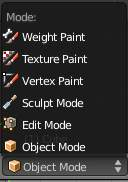
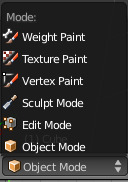
Image quality: Re-replace falsely replaced images
In a number of cases manual images were replaced with the wrong wiki image, even when the correct wiki image existed.
This commit corrects those cases, and catches a few missed cases of manual images with higher-quality wiki counterparts that were never replaced to begin with.

diff --git a/trunk/blender_docs/manual/render/blender_render/motion_blur.rst b/trunk/blender_docs/manual/render/blender_render/motion_blur.rst
@@ -58,17 +58,17 @@ The scale beneath the cube helps in appreciating the movement of 1 Blender unit.
 
 .. list-table::
 
-   * - .. figure:: /images/render-mblur02.jpg
+   * - .. figure:: /images/render-mblur02.png
           :width: 320px
 
           Frame 1 of the moving cube without Motion Blur.
 
-     - .. figure:: /images/render-mblur03.jpg
+     - .. figure:: /images/render-mblur03.png
           :width: 320px
 
           Frame 2 of the moving cube without Motion Blur.
 
-.. figure:: /images/render-mblur04.jpg
+.. figure:: /images/render-mblur04.png
    :width: 320px
 
    Frame 1 when Sampled Motion Blur is enabled and eight 'intermediate' frames are computed.
@@ -77,12 +77,12 @@ The scale beneath the cube helps in appreciating the movement of 1 Blender unit.
 
 .. list-table::
 
-   * - .. figure:: /images/render-mblur05.jpg
+   * - .. figure:: /images/render-mblur05.png
           :width: 320px
 
           The effect of an increased shutter value.
 
-     - .. figure:: /images/render-mblur06.jpg
+     - .. figure:: /images/render-mblur06.png
           :width: 320px
 
           Even further increased shutter value.

diff --git a/trunk/blender_docs/manual/editors/3dview/navigate/introduction.rst b/trunk/blender_docs/manual/editors/3dview/navigate/introduction.rst
@@ -17,7 +17,7 @@ The *3D View* editor is comprised of a workspace and a header.
 The header is shown at the bottom or top of the workspace, and can be hidden if desired.
 The header shows you a menu and the current mode, as explained below.
 
-.. figure:: /images/editors_3dview_header.jpg
+.. figure:: /images/editors_3dview_header.png
 
    3D View header.
 

diff --git a/trunk/blender_docs/manual/interface/window_system/regions.rst b/trunk/blender_docs/manual/interface/window_system/regions.rst
@@ -131,7 +131,7 @@ toggle between hide and show.
 
    * - .. figure:: /images/interface-window_system-headers-hide.png
 
-     - .. figure:: /images/interface-window_system-headers-show_02.jpg
+     - .. figure:: /images/interface-window_system-headers-show_02.png
 
 
 Position

diff --git a/trunk/blender_docs/manual/render/blender_render/textures/options.rst b/trunk/blender_docs/manual/render/blender_render/textures/options.rst
@@ -9,7 +9,7 @@ In the Properties editor, choose the Texture tab: this will show the Texture pan
 Textures Stack
 ==============
 
-.. figure:: /images/texture-stack.jpg
+.. figure:: /images/texture-stack.png
    :width: 300px
 
    Textures Stack.

diff --git a/trunk/blender_docs/manual/render/blender_render/textures/mapping/environment.rst b/trunk/blender_docs/manual/render/blender_render/textures/mapping/environment.rst
@@ -183,7 +183,7 @@ onto which it is being mapped.
 
 .. list-table::
 
-   * - .. figure:: /images/envmap01.jpg
+   * - .. figure:: /images/envmap01.png
 
           Planar reflection example. 1: Camera, 2: Empty, 3: Reflecting Plane.
 

diff --git a/trunk/blender_docs/manual/interface/controls/buttons_and_controls.rst b/trunk/blender_docs/manual/interface/controls/buttons_and_controls.rst
@@ -12,7 +12,7 @@ The different types of controls are described below.
 Operation Buttons
 =================
 
-.. figure:: /images/interface_button.jpg
+.. figure:: /images/interface_button.png
    :align: right
 
    Operation button.

diff --git a/trunk/blender_docs/manual/render/blender_render/materials/special_effects/halo.rst b/trunk/blender_docs/manual/render/blender_render/materials/special_effects/halo.rst
@@ -22,7 +22,7 @@ or when creating a viewable light or fog/atmospherics around an actual light.
 Options
 =======
 
-.. figure:: /images/materials-halos.jpg
+.. figure:: /images/materials-halos.png
    :width: 309px
 
    Halo panels.

diff --git a/trunk/blender_docs/manual/game_engine/logic/actuators/types/scene.rst b/trunk/blender_docs/manual/game_engine/logic/actuators/types/scene.rst
@@ -3,7 +3,7 @@
 Scene Actuator
 **************
 
-.. figure:: /images/bge_actuator_scene.png
+.. figure:: /images/bge_actuator_sound.png
    :width: 257px
 
    Scene actuator.

diff --git a/trunk/blender_docs/manual/render/blender_render/antialiasing.rst b/trunk/blender_docs/manual/render/blender_render/antialiasing.rst
@@ -146,7 +146,7 @@ Examples
 
 .. list-table::
 
-   * - .. figure:: /images/bi_aa02.jpg
+   * - .. figure:: /images/bi_aa02.png
 
           Todo.
 

diff --git a/trunk/blender_docs/manual/render/blender_render/post_processing/fields.rst b/trunk/blender_docs/manual/render/blender_render/post_processing/fields.rst
@@ -3,7 +3,7 @@
 Fields
 ******
 
-.. figure:: /images/bi_post_fields.jpg
+.. figure:: /images/bi_post_fields.png
 
    Field Rendering result.
 
